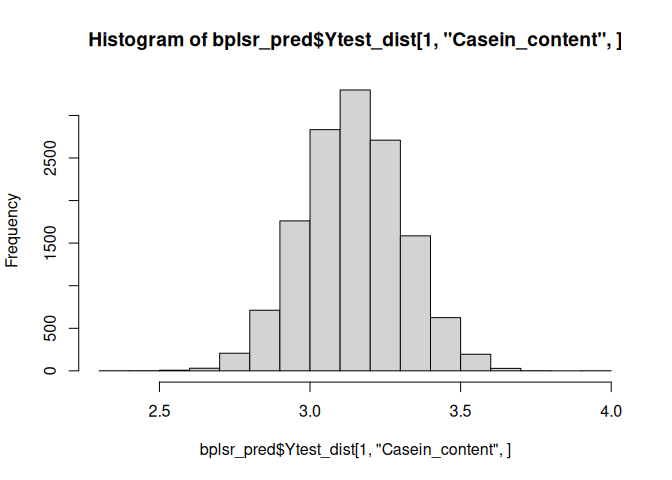
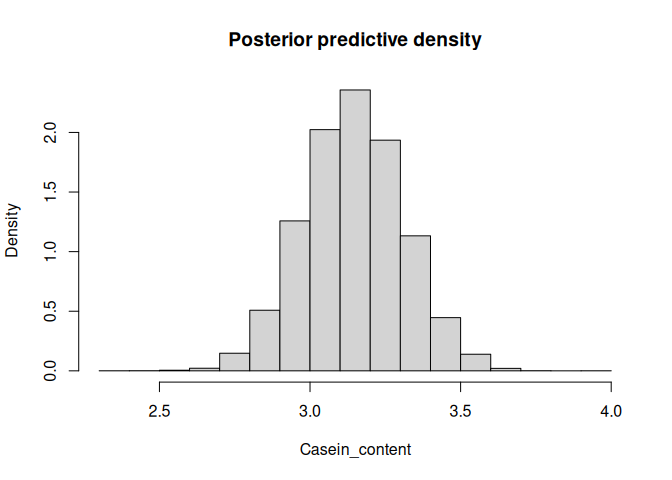
.

diff --git a/README.md b/README.md
@@ -8,7 +8,7 @@
 
 The `bplsr` package implements the Bayesian partial least squares
 regression model. It is a Bayesian factor model which emulates the
-partial least squares (PLS) method.
+partial least squares (PLS) method. See Urbas et al. (2024) for details.
 
 ## Installation
 
@@ -20,7 +20,7 @@ devtools::install_github("SzymonUrbas/bplsr")
 ## Example
 
 The following example illustrates how to carry out multivariate
-regression using BPLS:
+regression using BPLS on mid-infrared spectral data of milk samples:
 
 ``` r
 library(bplsr)
@@ -34,11 +34,12 @@ set.seed(1)
 idx = sample(seq(nrow(X)),floor(nrow(X)*0.75),replace = FALSE)
 
 Xtrain = X[idx,];Ytrain = Y[idx,]
-
 Xtest = X[-idx,];Ytest = Y[-idx,]
 
+# fit the model (MCMC takes time)
 bplsr_Fit = bplsr(Xtrain,Ytrain)
 
+# generate predictions
 bplsr_pred = bplsr.predict(model = bplsr_Fit, newdata = Xtest)
 
 # point predictions
@@ -74,7 +75,8 @@ head(bplsr_pred$Ytest_PI)
 #> [6,]       3.023982    5.269628
 
 # plot of predictive posterior distribution for single test sample
-hist(bplsr_pred$Ytest_dist[1,'Casein_content',])
+hist(bplsr_pred$Ytest_dist[1,'Casein_content',], freq = F,
+     main = 'Posterior predictive density', xlab = 'Casein_content')
 ```
 
 <img src="man/figures/README-example-1.png" width="100%" />
